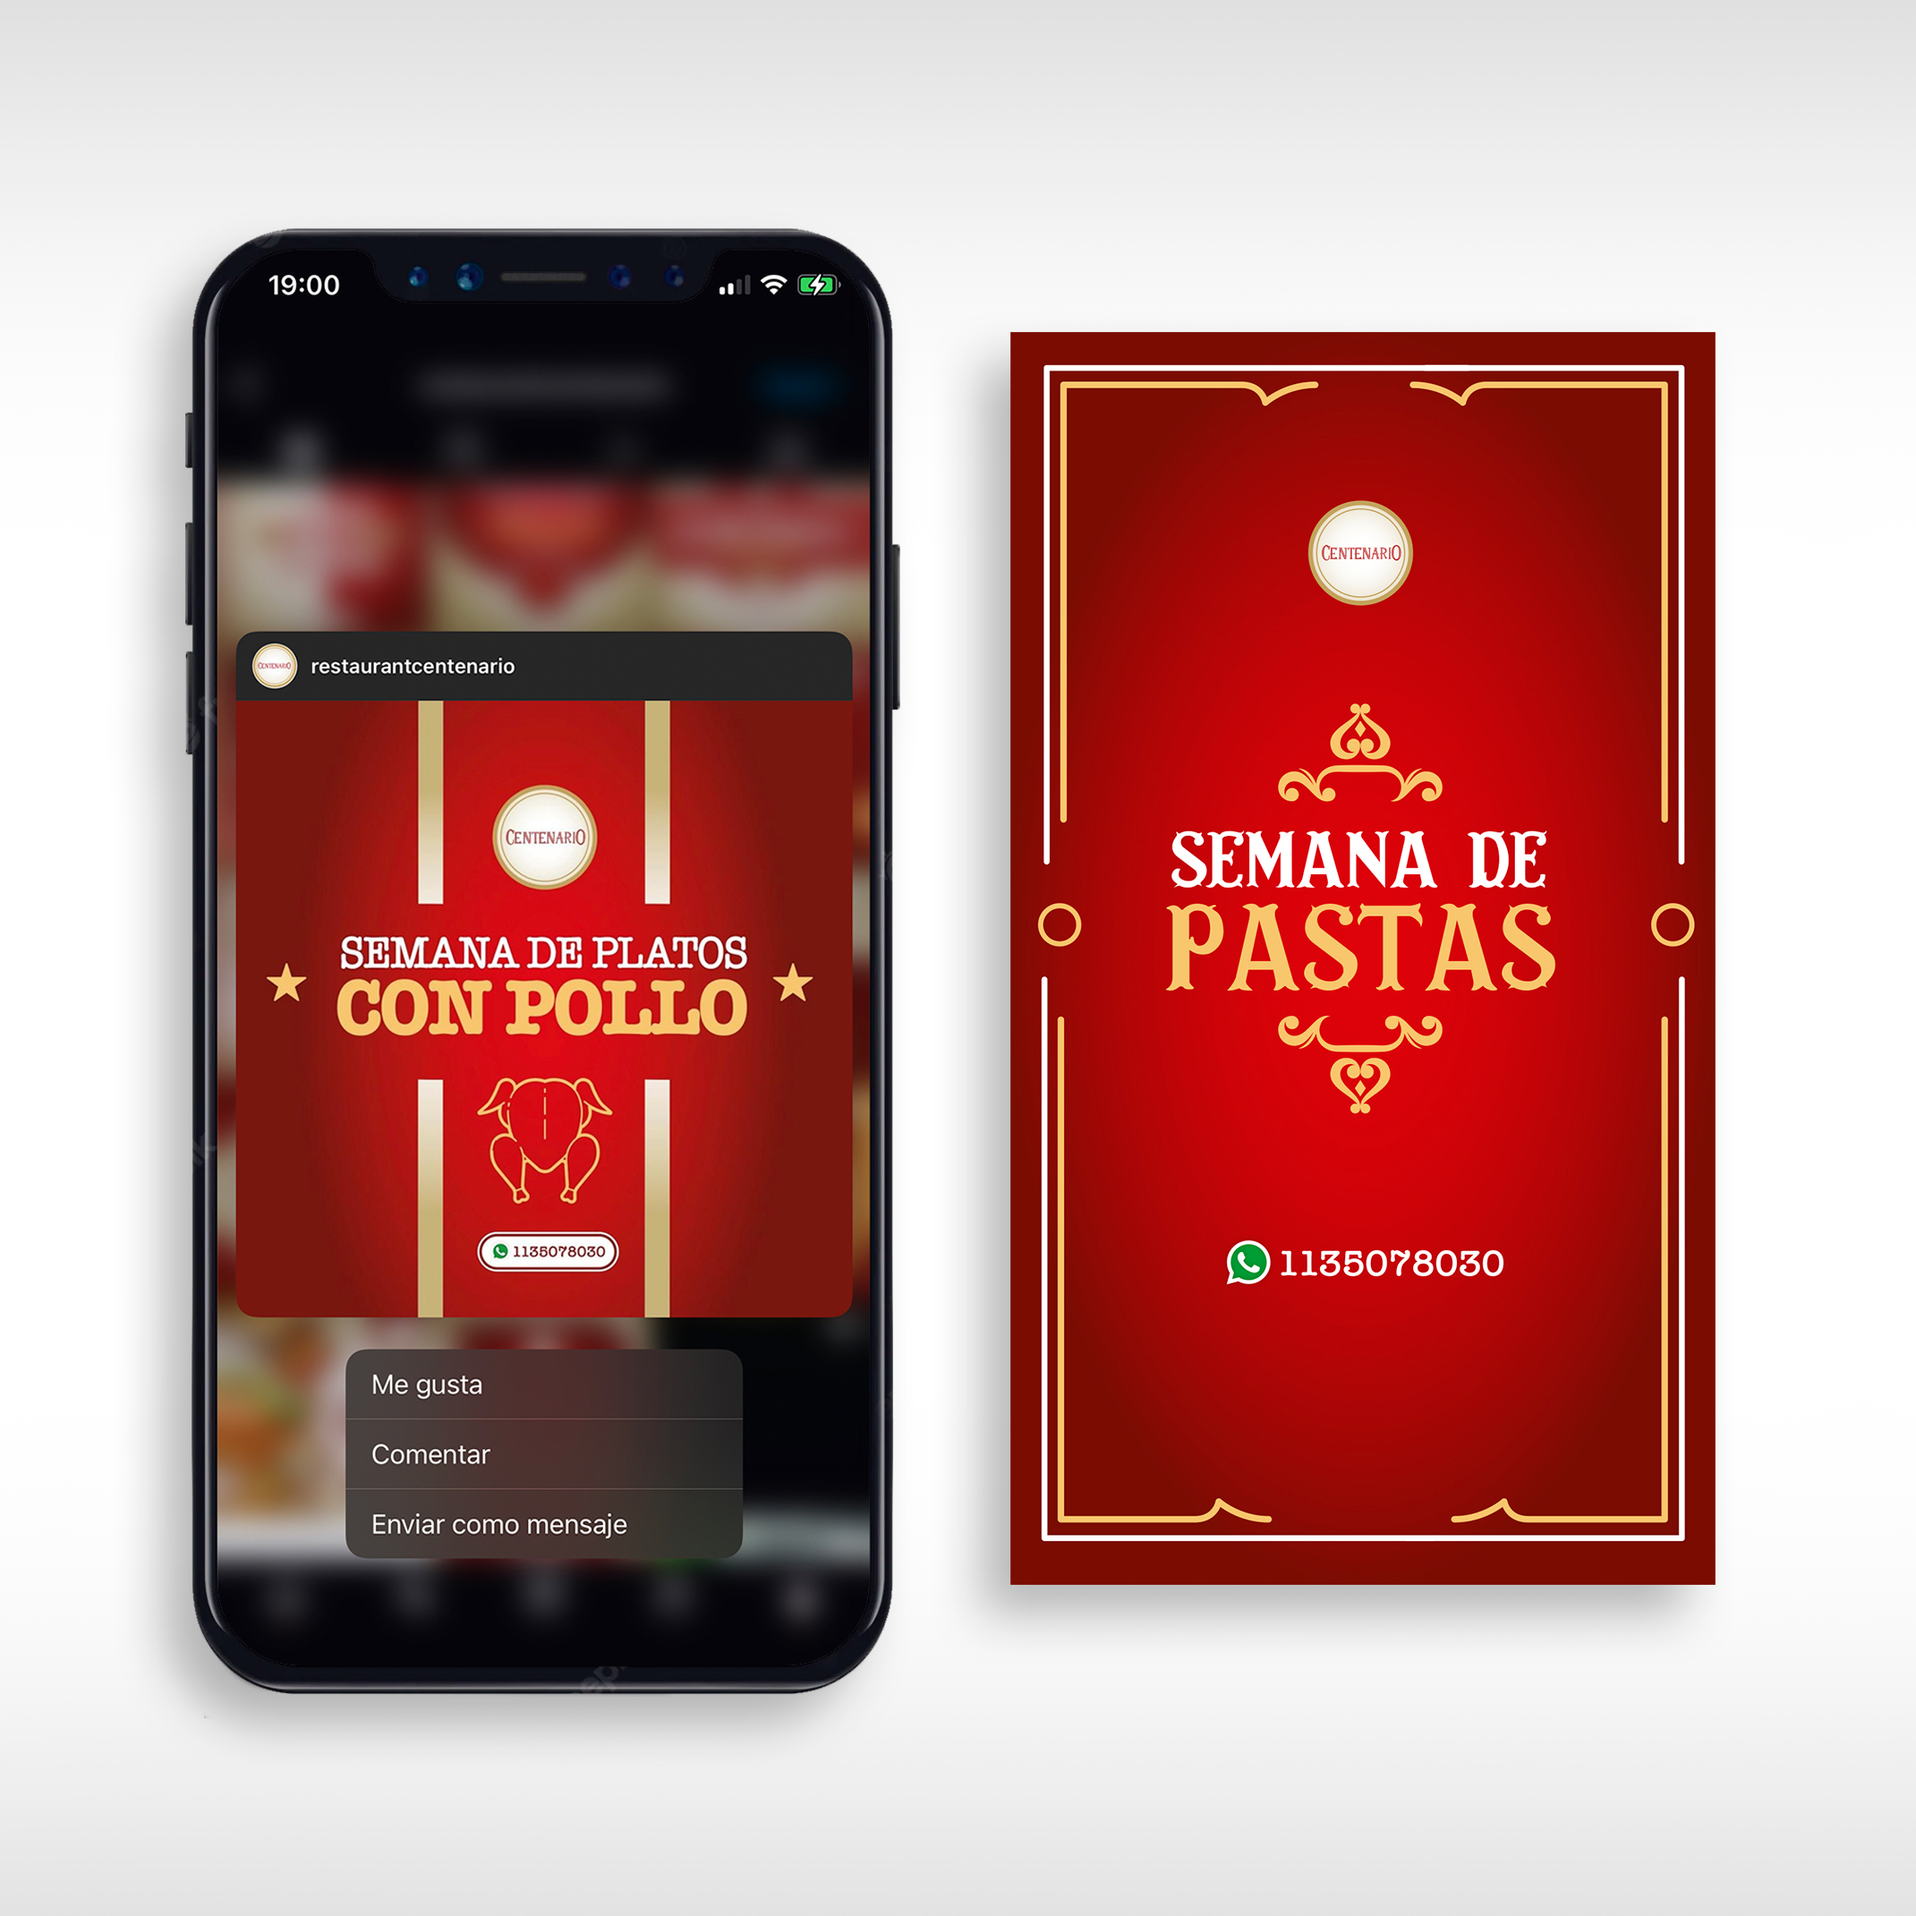
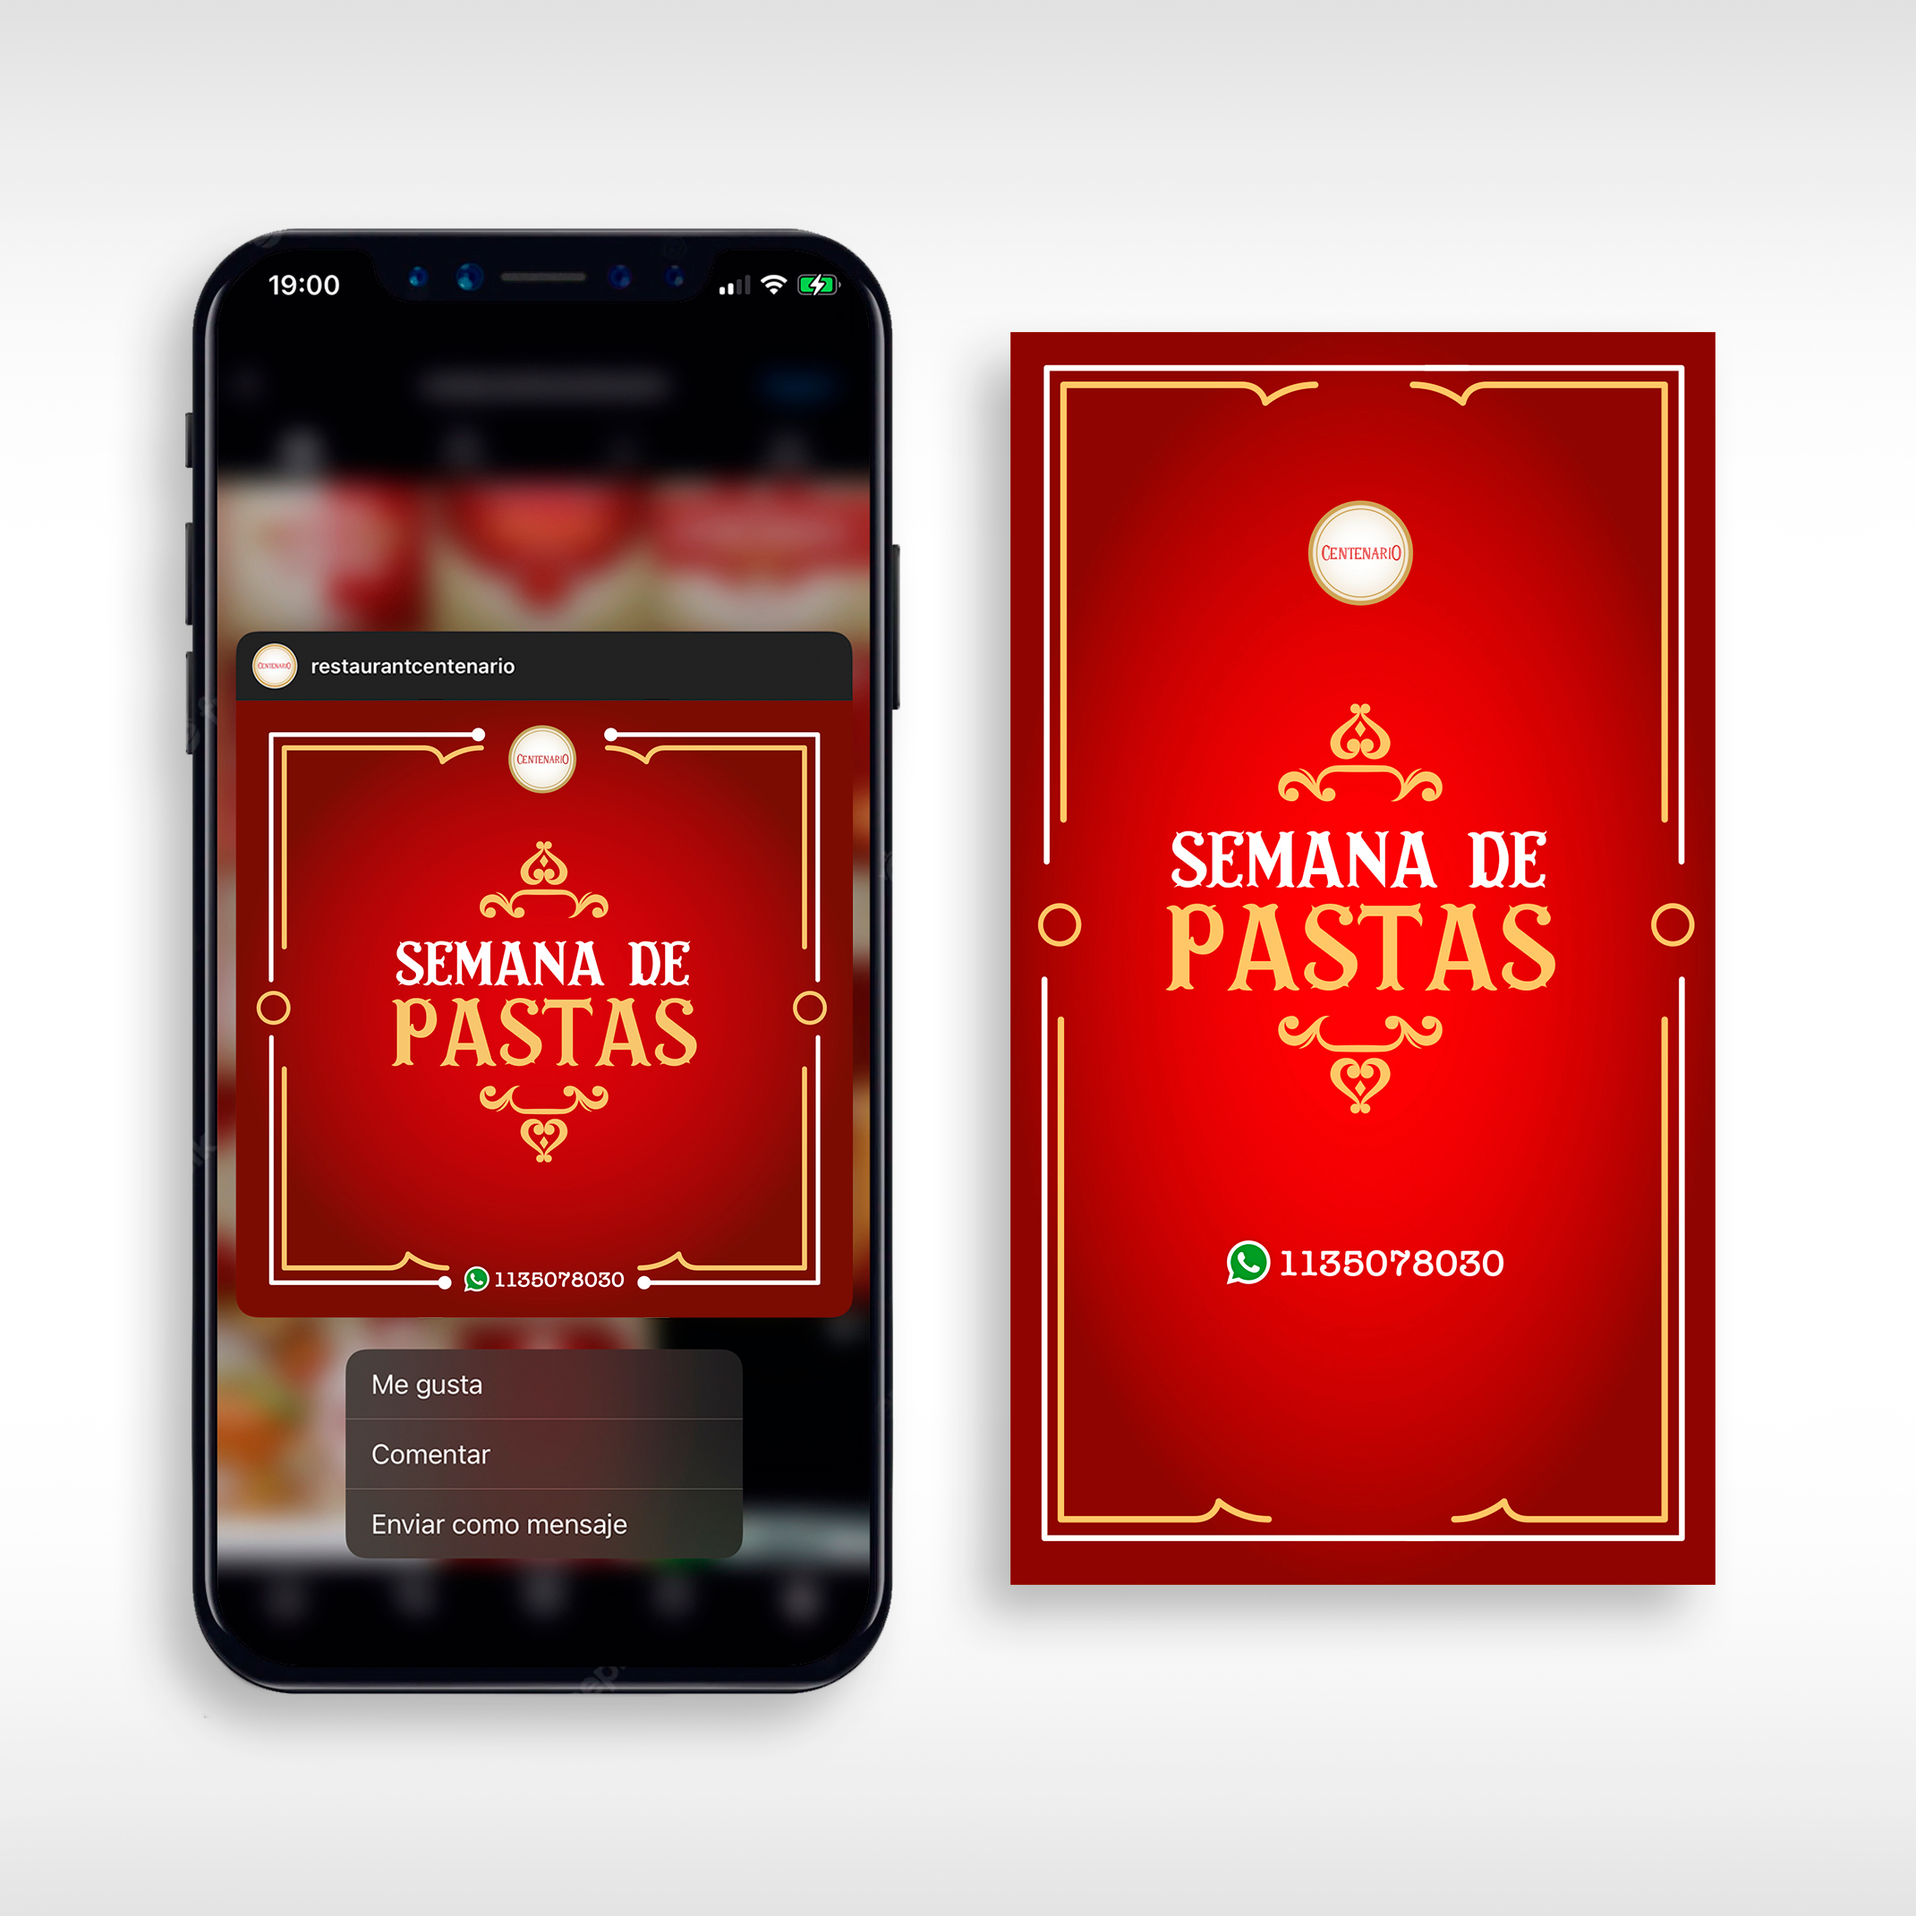
cambio de imagen redes

Changed region(s): [[0.5241, 0.185, 0.894, 0.8015], [0.1233, 0.3391, 0.4316, 0.709], [0.2466, 0.2466, 0.3083, 0.3083]]

diff --git a/Paginas/portfolio-RS.html b/Paginas/portfolio-RS.html
@@ -184,7 +184,7 @@
         <a href="#img-6" class="left"><i class="fa-solid fa-2x fa-arrow-left"></i></a>
         <div>
         <a href="" class="close"><i class="fa-solid fa-circle-xmark"></i></a>
-        <img src="../Imagenes/Portfolio/redes6.jpg" alt="">
+        <img src="../Imagenes/Portfolio/redes7.jpg" alt="">
         <h6 class="bajada">Diseño de Placas para Instagram - Restaurante Centenario</h6>
         </div>
         <a href="#img-8" class="right"><i class="fa-solid fa-2x fa-arrow-right"></i></a>
@@ -194,7 +194,7 @@
         <a href="#img-7" class="left"><i class="fa-solid fa-2x fa-arrow-left"></i></a>
         <div>
         <a href="" class="close"><i class="fa-solid fa-circle-xmark"></i></a>
-        <img src="../Imagenes/Portfolio/redes6.jpg" alt="">
+        <img src="../Imagenes/Portfolio/redes8.jpg" alt="">
         <h6 class="bajada">Diseño de Placa + Adaptacion a Historia - Restaurante Centenario</h6>
         </div>
         <a href="#img-9" class="right"><i class="fa-solid fa-2x fa-arrow-right"></i></a>
@@ -204,7 +204,7 @@
         <a href="#img-8" class="left"><i class="fa-solid fa-2x fa-arrow-left"></i></a>
         <div>
         <a href="" class="close"><i class="fa-solid fa-circle-xmark"></i></a>
-        <img src="../Imagenes/Portfolio/redes6.jpg" alt="">
+        <img src="../Imagenes/Portfolio/redes9.jpg" alt="">
         <h6 class="bajada">DDiseño de Placas (Carousel menú) - Restaurante Centenario/h6>
         </div>
         <a href="#img-1" class="right"><i class="fa-solid fa-2x fa-arrow-right"></i></a>
